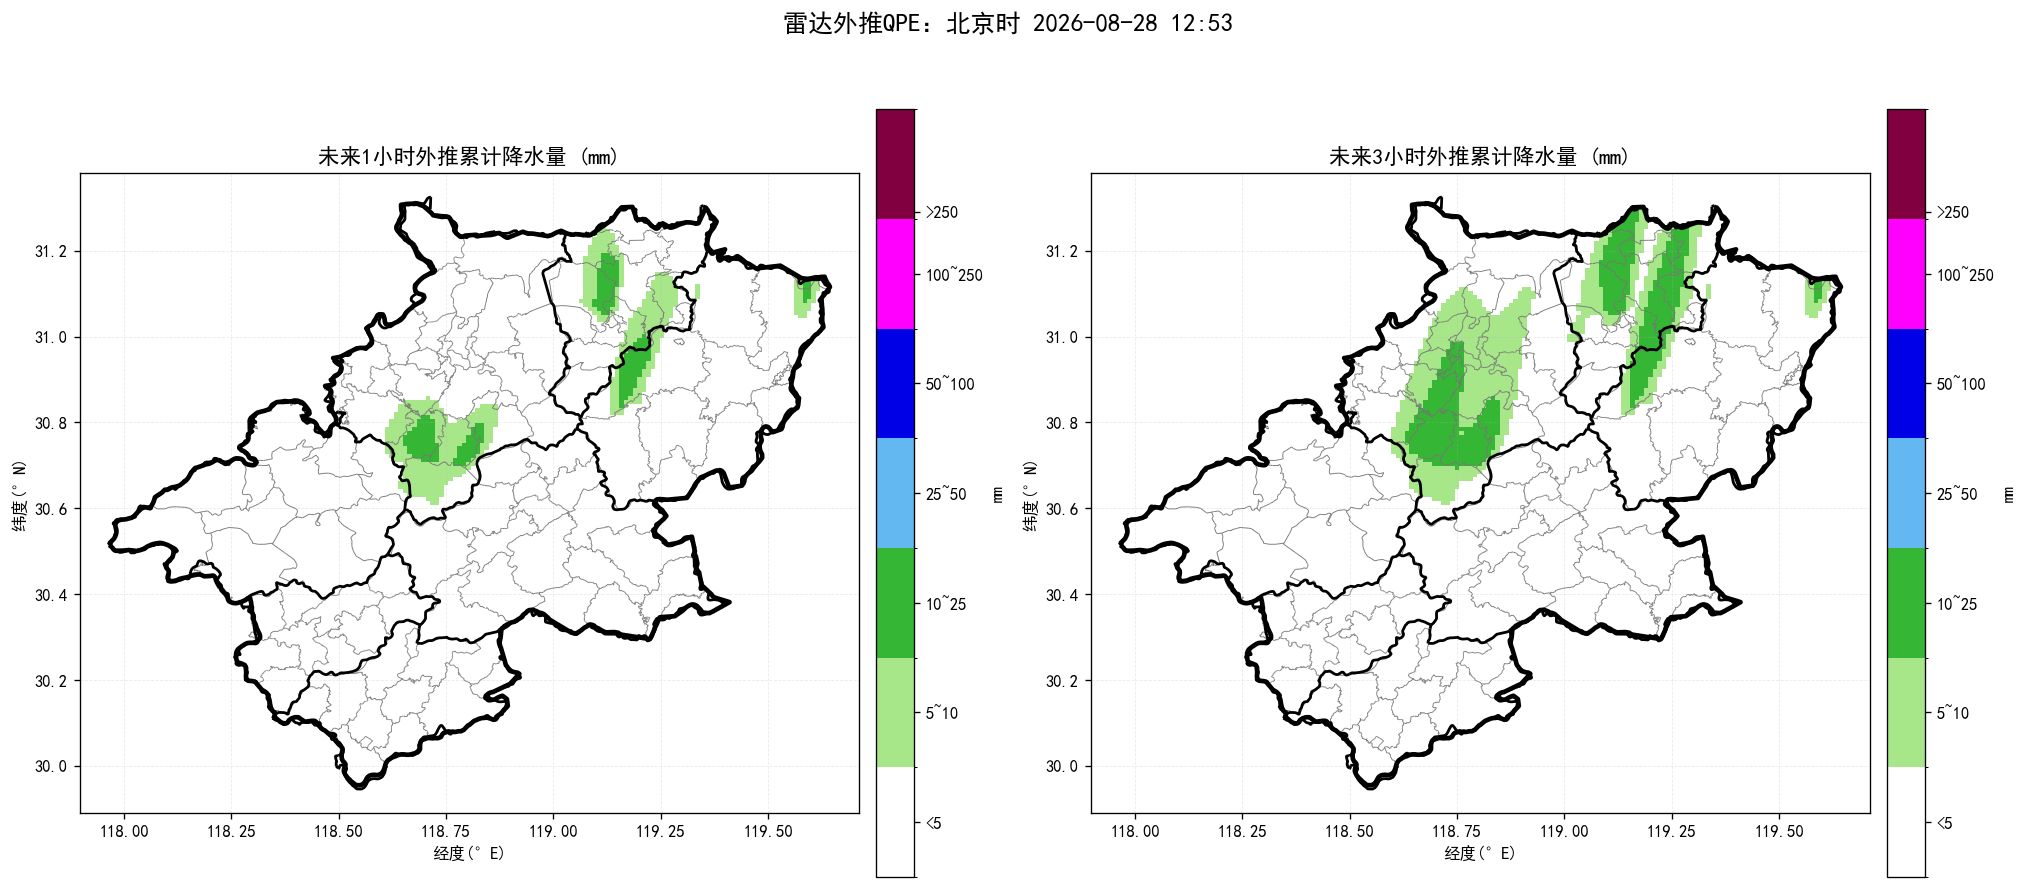
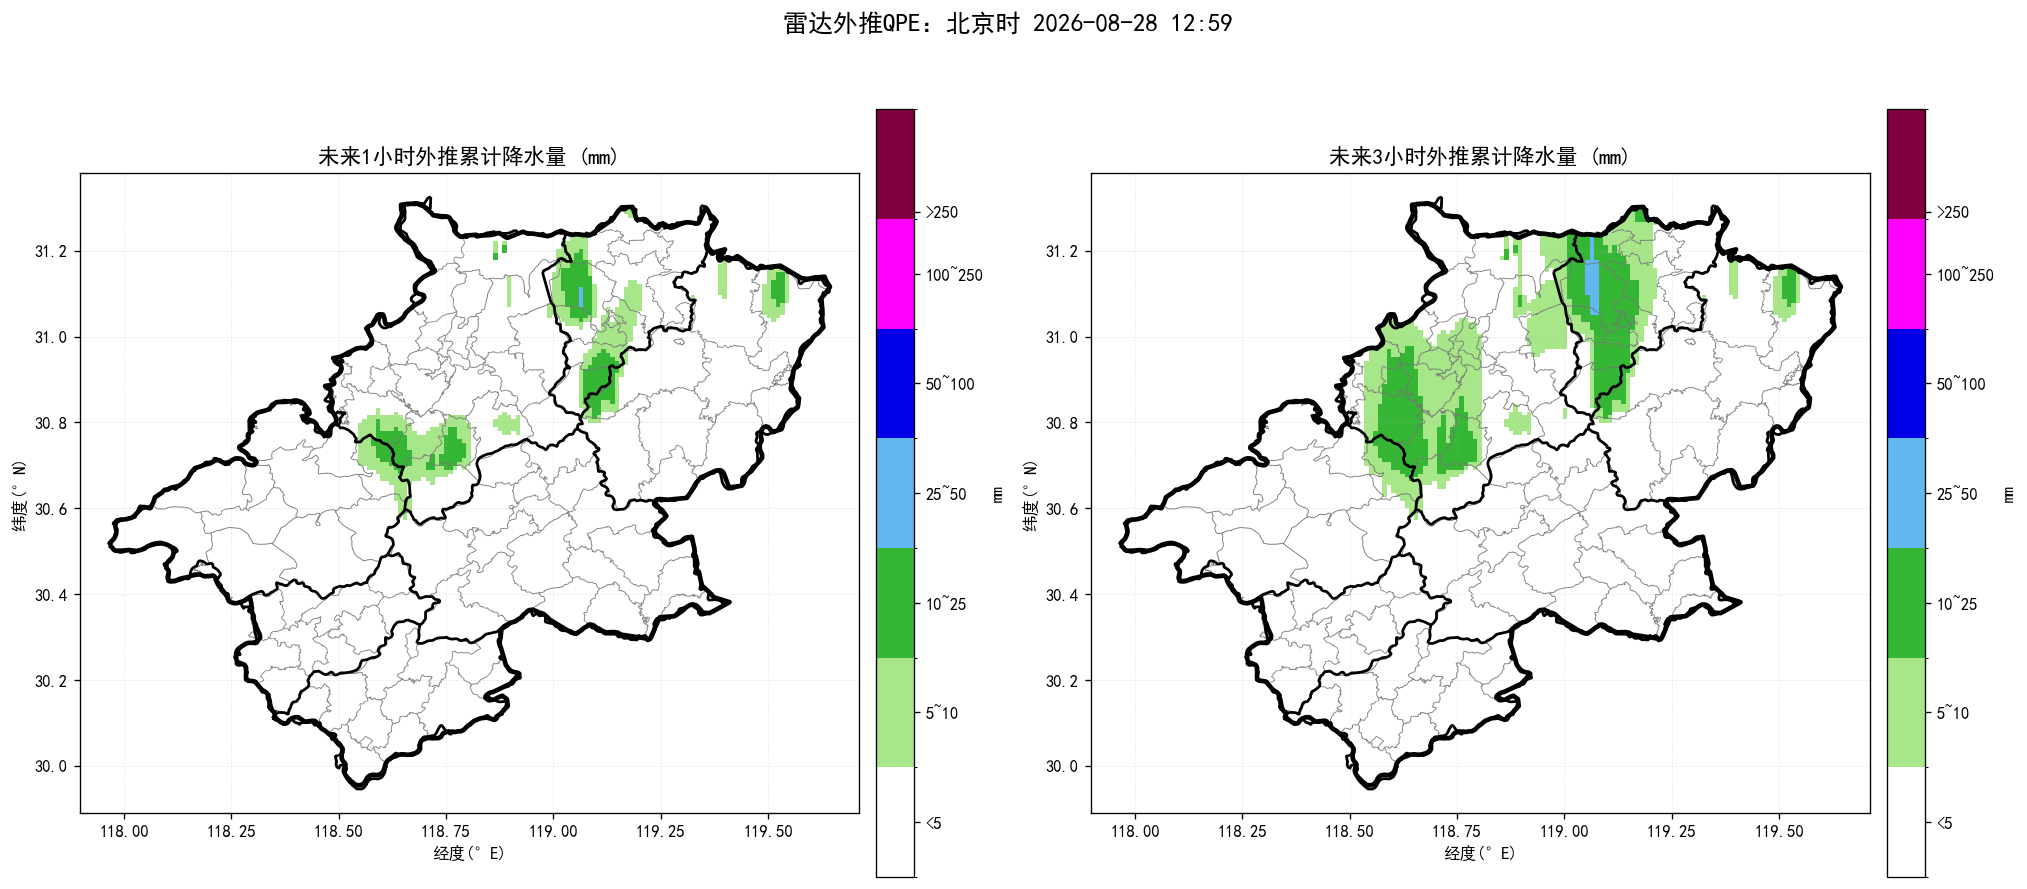
update nowcast products

Changed region(s): [[0.6527, 0.243, 0.9013, 0.5771], [0.1554, 0.243, 0.404, 0.5771]]

diff --git a/index.html b/index.html
@@ -14,14 +14,14 @@ img.product{display:block;width:100%;height:auto;margin:10px auto 26px;border:1p
 .footer{font-size:13px;color:#777;text-align:center;margin-top:30px}
 @media(max-width:700px){.sheet{margin:0;padding:18px 15px}.alert-title{font-size:22px}.county-line{font-size:17px}.prob{font-size:18px}}
 </style></head><body><main class="sheet">
-<div class="time">起报时间：北京时 2026-08-28 12:53</div>
-<div class="alert-title">未来一小时降水量超过 20 毫米的乡镇：</div><div class="county-line">无</div>
+<div class="time">起报时间：北京时 2026-08-28 12:59</div>
+<div class="alert-title">未来一小时降水量超过 20 毫米的乡镇：</div><div class="county-line">郎溪县：飞鲤镇、毕桥镇</div>
 <div class="alert-title">未来三小时降水量超过 50 毫米的乡镇：</div><div class="county-line">无</div>
-<div class="alert-title">未来三小时雷暴大风（组合反射率 > 55 dBZ）的乡镇：</div><div class="county-line">无</div>
-<div class="prob">最大降水量概率预估：宣城市范围内未来三小时降水偏小，最大预报约18.7毫米，暂不进行50/80/100毫米概率预估。</div>
-<div class="section-title">未来降水预报图：</div><img class="product auto-refresh-product" data-src="短临降水预报.png" src="短临降水预报.png?v=20260828125940" alt="未来降水预报图">
-<div class="section-title">未来三小时组合反射率图：</div><img class="product auto-refresh-product" data-src="未来3小时组合反射率.png" src="未来3小时组合反射率.png?v=20260828125940" alt="未来三小时组合反射率图">
-<div class="section-title">未来三小时雷暴大风图：</div><img class="product auto-refresh-product" data-src="未来3小时雷暴大风.png" src="未来3小时雷暴大风.png?v=20260828125940" alt="未来三小时雷暴大风图">
+<div class="alert-title">未来三小时雷暴大风（组合反射率 > 55 dBZ）的乡镇：</div><div class="county-line">宣州区：狸桥镇</div>
+<div class="prob">最大降水量概率预估：宣城市范围内未来三小时累计降水达到50毫米概率约19%，达到80毫米概率约0%，达到100毫米概率约0%。</div>
+<div class="section-title">未来降水预报图：</div><img class="product auto-refresh-product" data-src="短临降水预报.png" src="短临降水预报.png?v=20260828130520" alt="未来降水预报图">
+<div class="section-title">未来三小时组合反射率图：</div><img class="product auto-refresh-product" data-src="未来3小时组合反射率.png" src="未来3小时组合反射率.png?v=20260828130520" alt="未来三小时组合反射率图">
+<div class="section-title">未来三小时雷暴大风图：</div><img class="product auto-refresh-product" data-src="未来3小时雷暴大风.png" src="未来3小时雷暴大风.png?v=20260828130520" alt="未来三小时雷暴大风图">
 <div class="footer">三张产品图每 60 秒自动刷新一次；每次请求自动附加新的URL参数以绕过缓存。</div>
 <script>
 (function() {
